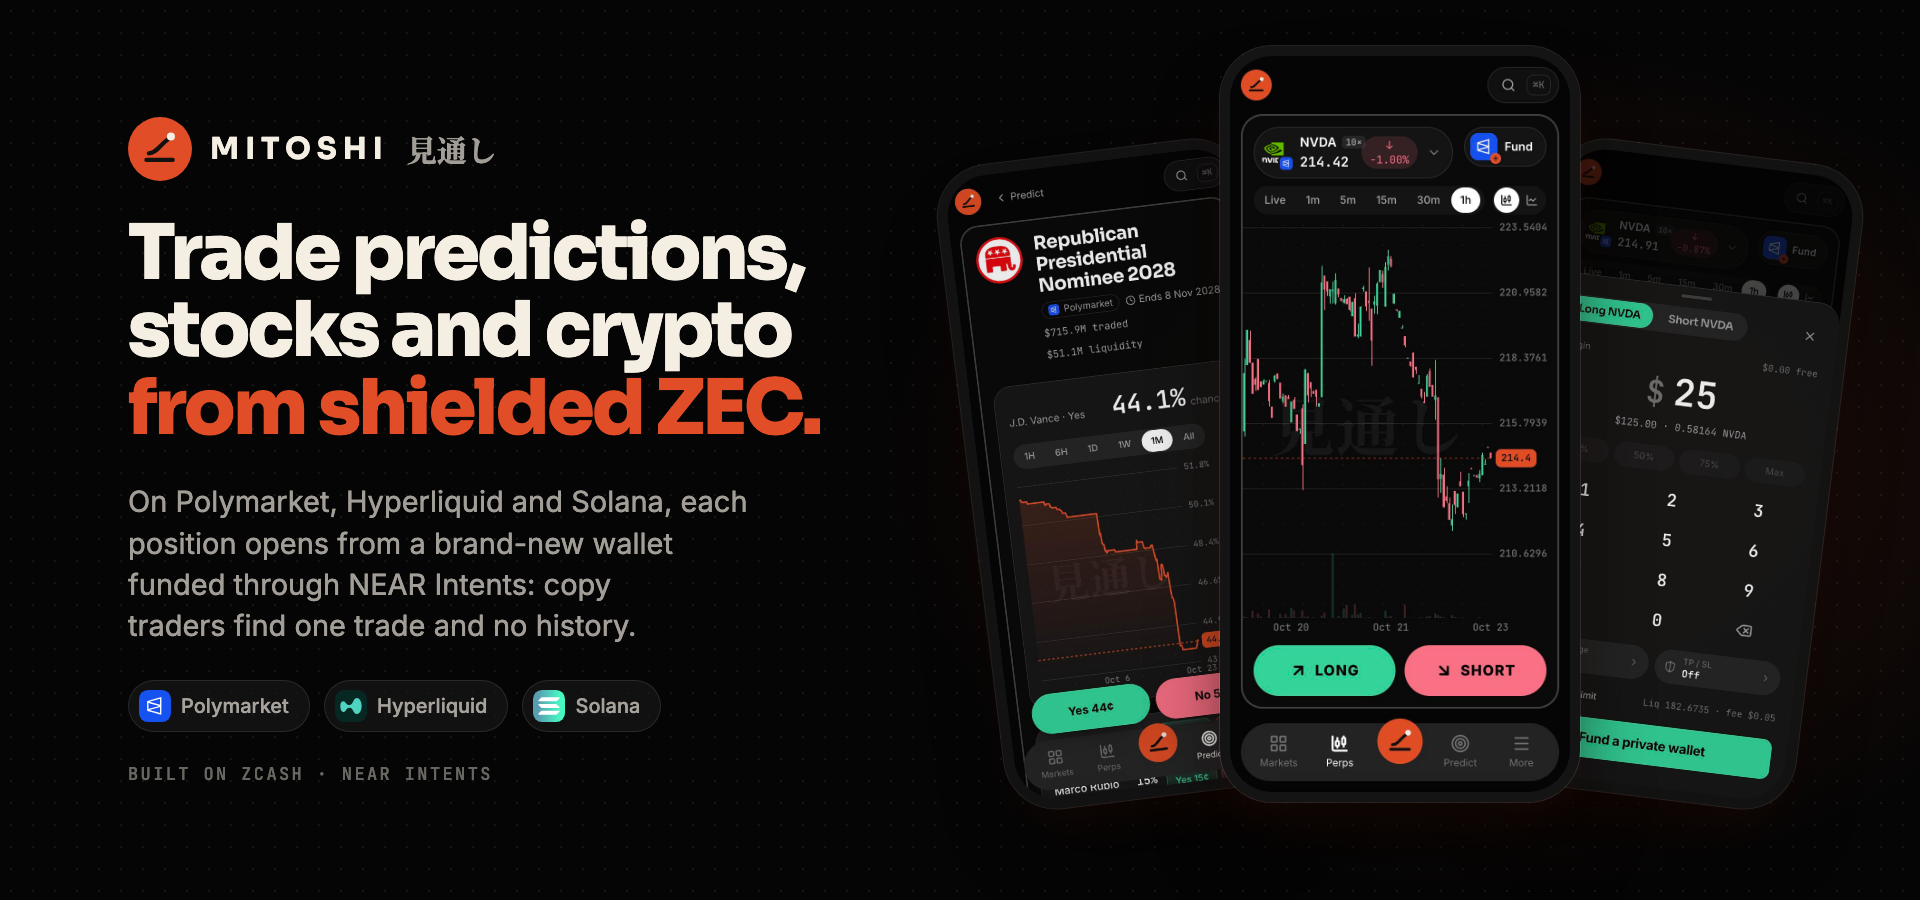
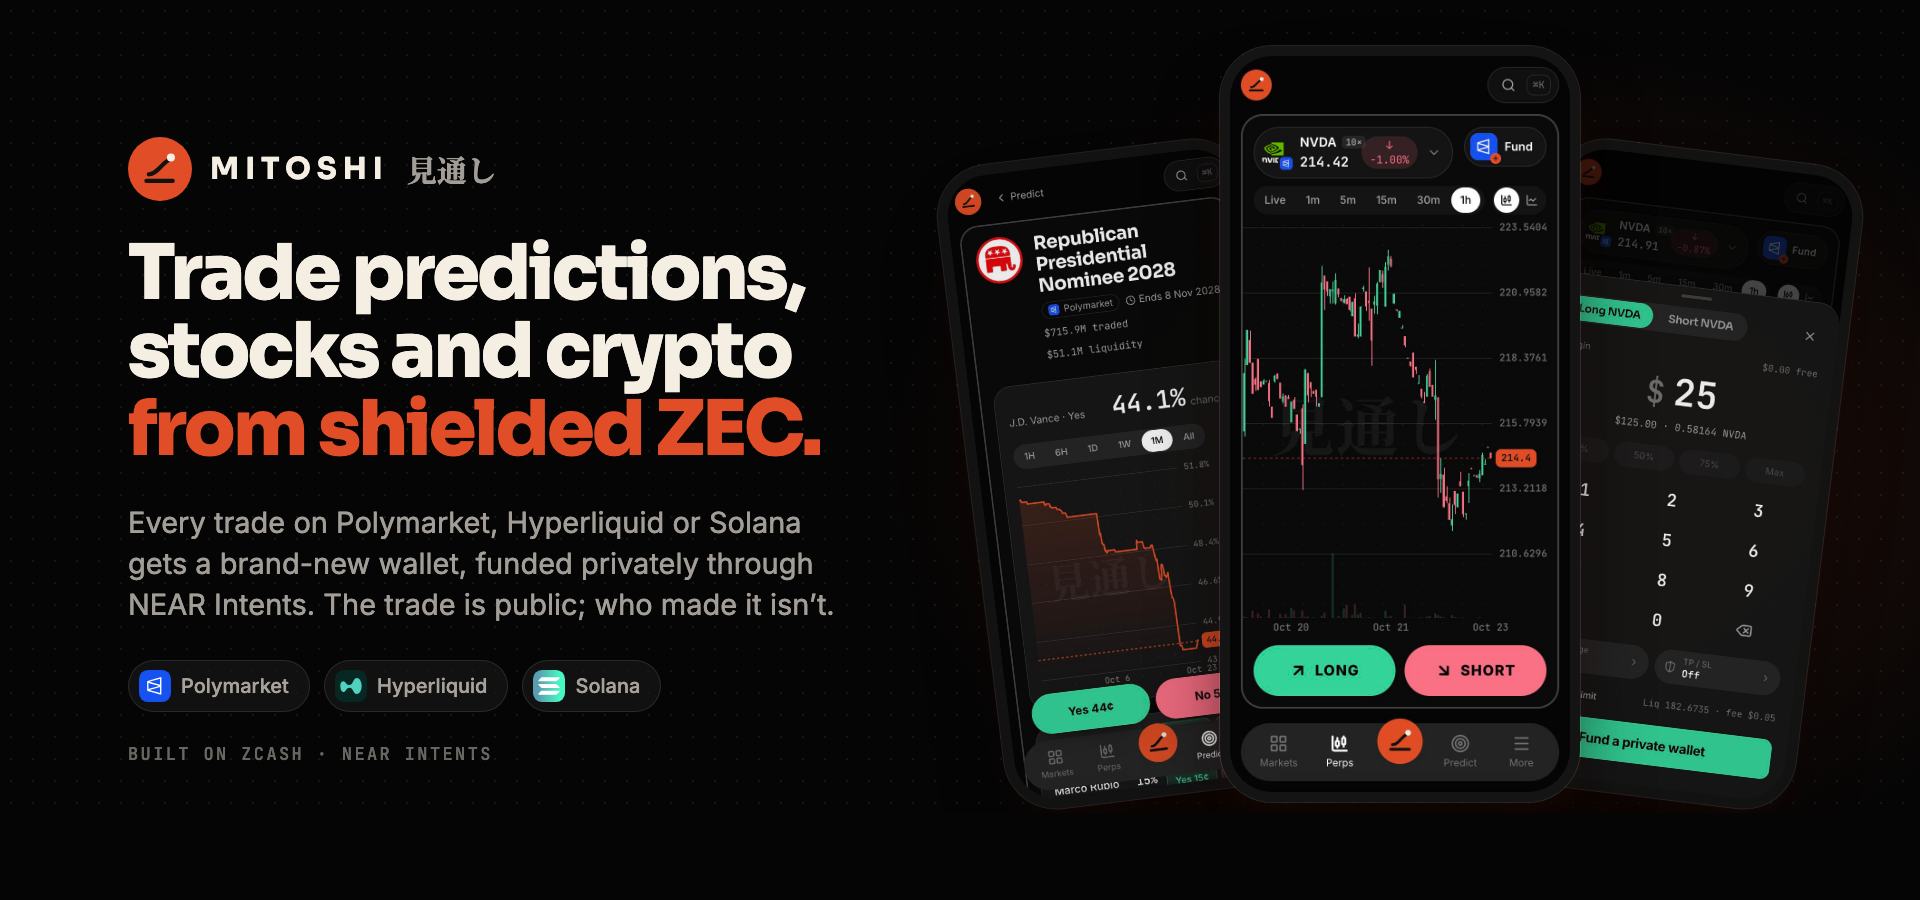
One hero line everywhere: every trade gets a brand-new wallet
The subline now reads 'Every trade on Polymarket, Hyperliquid or Solana gets a
brand-new wallet, funded privately through NEAR Intents. The trade is public; who
made it isn't.' on the landing, metadata, docs, README, package and submission.
The banner and the link preview are re-rendered from their HTML source.

Changed region(s): [[0.0625, 0.1244, 0.4375, 0.7156], [0.0625, 0.7467, 0.3438, 0.8711]]

diff --git a/apps/docs/src/lib/site.ts b/apps/docs/src/lib/site.ts
@@ -10,10 +10,10 @@ export const SITE = {
   repo: "https://github.com/mitoshi-xyz/mitoshi",
   headline: "Trade predictions, stocks and crypto from shielded ZEC.",
   subline:
-    "On Polymarket, Hyperliquid and Solana, each position opens from a brand-new wallet funded through NEAR Intents: copy traders find one trade and no history.",
+    "Every trade on Polymarket, Hyperliquid or Solana gets a brand-new wallet, funded privately through NEAR Intents. The trade is public; who made it isn't.",
   motto: "A new wallet for every trade.",
   description:
-    "Trade predictions, stocks and crypto from shielded ZEC: on Polymarket, Hyperliquid and Solana, each position opens from a brand-new wallet funded through NEAR Intents.",
+    "Trade predictions, stocks and crypto from shielded ZEC: every trade on Polymarket, Hyperliquid or Solana gets a brand-new wallet, funded privately through NEAR Intents.",
 } as const;
 
 /** The docs' sections (the top tabs) and where each starts. */

diff --git a/.github/assets/source/banner.html b/.github/assets/source/banner.html
@@ -73,7 +73,7 @@
       <span class="stamp">見通し</span>
     </div>
     <h1>Trade predictions,<br />stocks and crypto<br /><em>from shielded ZEC.</em></h1>
-    <p class="sub">On Polymarket, Hyperliquid and Solana, each position opens from a <span style="white-space:nowrap">brand-new</span> wallet funded through NEAR Intents: copy traders find one trade and no history.</p>
+    <p class="sub">Every trade on Polymarket, Hyperliquid or Solana gets a <span style="white-space:nowrap">brand-new</span> wallet, funded privately through NEAR Intents. The trade is public; who made it isn&rsquo;t.</p>
     <div class="venues">
       <span class="venue"><img src="../../../apps/web/public/marks/venue-polymarket.svg" alt="" />Polymarket</span>
       <span class="venue"><img src="../../../apps/web/public/marks/venue-hyperliquid.svg" alt="" />Hyperliquid</span>

diff --git a/apps/web/src/app/layout.tsx b/apps/web/src/app/layout.tsx
@@ -6,7 +6,7 @@ import "./globals.css";
 
 const TITLE = "Mitoshi 見通し · Trade predictions, stocks and crypto from shielded ZEC";
 const DESCRIPTION =
-  "On Polymarket, Hyperliquid and Solana, each position opens from a brand-new wallet funded through NEAR Intents: copy traders find one trade and no history.";
+  "Every trade on Polymarket, Hyperliquid or Solana gets a brand-new wallet, funded privately through NEAR Intents. The trade is public; who made it isn't.";
 /** The link preview (public/og.png), made from the README banner: .github/assets/source/banner.html#og. */
 const OG_WIDTH = 1200;
 const OG_HEIGHT = 630;

diff --git a/apps/web/src/features/landing/copy.ts b/apps/web/src/features/landing/copy.ts
@@ -13,7 +13,7 @@ export const LANDING = {
     chip: "Live on Zcash mainnet",
     title: ["Trade predictions,", "stocks and crypto"],
     accent: "from shielded ZEC.",
-    line: "On Polymarket, Hyperliquid and Solana, each position opens from a brand-new wallet funded through NEAR Intents: copy traders find one trade and no history.",
+    line: "Every trade on Polymarket, Hyperliquid or Solana gets a brand-new wallet, funded privately through NEAR Intents. The trade is public; who made it isn't.",
     open: "Open Mitoshi",
     how: "How it works",
     small: "No account · no sign-up · your keys stay in this browser",

diff --git a/apps/web/src/features/welcome/copy.ts b/apps/web/src/features/welcome/copy.ts
@@ -12,7 +12,7 @@ export const WELCOME = {
     {
       key: "fresh",
       title: "A new wallet for every trade.",
-      body: "Each position opens from a wallet that has never existed before.",
+      body: "Every trade gets a wallet that has never existed before.",
     },
     {
       key: "venues",

diff --git a/README.md b/README.md
@@ -1,6 +1,6 @@
 <p align="center">
   <a href="https://mitoshi.xyz">
-    <picture><img src=".github/assets/banner.png" width="960" alt="Mitoshi 見通し. Trade predictions, stocks and crypto from shielded ZEC. On Polymarket, Hyperliquid and Solana, each position opens from a brand-new wallet funded through NEAR Intents: copy traders find one trade and no history. Three phone screens from the app: a Polymarket event, the NVIDIA perps terminal and a Long order sheet." /></picture>
+    <picture><img src=".github/assets/banner.png" width="960" alt="Mitoshi 見通し. Trade predictions, stocks and crypto from shielded ZEC. Every trade on Polymarket, Hyperliquid or Solana gets a brand-new wallet, funded privately through NEAR Intents. The trade is public; who made it isn't. Three phone screens from the app: a Polymarket event, the NVIDIA perps terminal and a Long order sheet." /></picture>
   </a>
 </p>
 
@@ -23,8 +23,8 @@
   <a href="https://mitoshi.xyz/status"><b>Status</b></a>
 </p>
 
-On Polymarket, Hyperliquid and Solana, each position opens from a brand-new wallet funded through NEAR Intents: copy
-traders find one trade and no history. From one shielded ZEC balance you bet on prediction markets, trade US stocks,
+Every trade on Polymarket, Hyperliquid or Solana gets a brand-new wallet, funded privately through NEAR Intents. The
+trade is public; who made it isn't. From one shielded ZEC balance you bet on prediction markets, trade US stocks,
 indices, gold and oil, go long or short on crypto perps, and buy Solana tokens, with one portfolio across all of them.
 The privacy is the engine: a real Zcash wallet runs in your browser, every funding is one standard amount sent at a
 random moment, every call about your wallets travels over Oblivious HTTP, and Send home swaps the money back to a fresh

diff --git a/.github/submission/fields.md b/.github/submission/fields.md
@@ -16,7 +16,7 @@ separate problem field, so the problem opens the Description in the README's wor
 ## Description
 
 ```text
-Trade predictions, stocks and crypto from shielded ZEC. On Polymarket, Hyperliquid and Solana, each position opens from a brand-new wallet funded through NEAR Intents: copy traders find one trade and no history.
+Trade predictions, stocks and crypto from shielded ZEC. Every trade on Polymarket, Hyperliquid or Solana gets a brand-new wallet, funded privately through NEAR Intents. The trade is public; who made it isn't.
 
 The problem: on these markets every trade is public, and tools rank wallets so others can copy them. Traders use a new wallet for every trade, but the money that funds it gives it away: a transfer from the main wallet is public, and an exchange records every withdrawal under your name. "I created another wallet to trade in peace and people found it."
 
